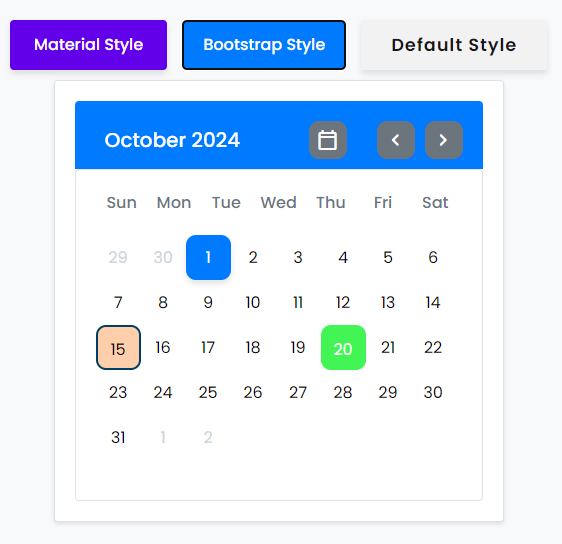
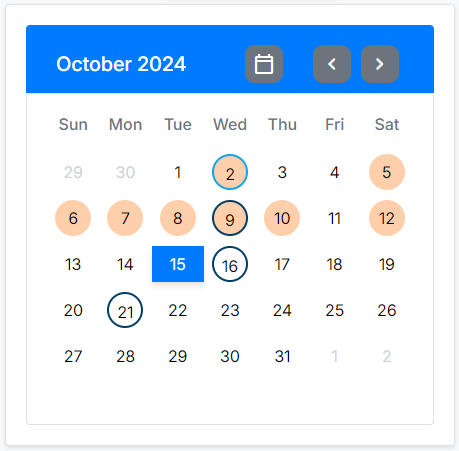
feat:  - add novas imagens  - ajuste no style do range de datas  - refatorando o READM.md

diff --git a/material.css b/material.css
@@ -75,14 +75,6 @@ body {
     color: #757575; /* Cor de texto secundário */
 }
 
-.wrapper.material-style .calendar .list-days .list-item-days {
-    height: 45px;
-    width: 45px;
-    padding: 10px;
-    cursor: pointer;
-    border-radius: 50%; /* Borda arredondada para os dias */
-    transition: background-color 0.3s ease, color 0.3s ease;
-}
 
 .wrapper.material-style .calendar .list-days .inactive {
     color: #bdbdbd; /* Cinza claro para dias inativos */
@@ -111,7 +103,32 @@ body {
     position: relative;
 }
 
+.wrapper.material-style .calendar .list-item-days .day{
+    border-radius: 0;
+}
+
+ 
+.wrapper.material-style .calendar .list-item-days.startSelection .day,
+.wrapper.material-style .calendar .list-item-days.endSelection .day {
+    background-color: #6200ea;
+}
+
 .wrapper.material-style .calendar .list-item-days:hover {
-    background-color: #eeeeee; /* Cor mais clara ao passar o mouse */
+    background-color: #eeeeee;  /** Cor mais clara ao passar o mouse */
     color: #181616;
 }
+
+.wrapper.material-style .calendar .inRange .day{
+    background-color: #6200ea;
+
+}
+
+.wrapper.material-style .startSelection::before {
+    right: 0;
+    background-color: #6200ea;
+}
+
+.wrapper.material-style .endSelection::before {
+    left: 0;
+    background-color: #6200ea;
+} 

diff --git a/bootstrap.css b/bootstrap.css
@@ -69,15 +69,6 @@ body {
     color: #6c757d; /* Cor secundária do Bootstrap para texto */
 }
 
-.wrapper.bootstrap-style .calendar .list-days .list-item-days {
-    height: 45px;
-    width: 45px;
-    padding: 10px;
-    cursor: pointer;
-    border-radius: 10px; /* Borda arredondada para os dias */
-    transition: background-color 0.3s ease, color 0.3s ease;
-}
-
 .wrapper.bootstrap-style .calendar .list-days .inactive {
     color: #ced4da; /* Cor cinza para dias inativos */
 }
@@ -104,6 +95,11 @@ body {
     width: calc(100% / 7);   
     position: relative;
 }
+
+
+/* .wrapper.bootstrap-style .calendar .list-item-days .day{
+    border-radius: 10px;
+} */
 
 .wrapper.bootstrap-style .calendar .list-item-days:hover {
     background-color: #f8f9fa; /* Cor de hover seguindo o padrão Bootstrap */

diff --git a/style-tce.css b/style-tce.css
@@ -91,14 +91,6 @@ body {
     color: #6c757d; /* Cor secundária do Bootstrap para texto */
 }
 
-.wrapper.tce-style .calendar .list-days .list-item-days {
-    height: 45px;
-    width: 45px;
-    padding: 10px;
-    cursor: pointer;
-    border-radius: 50%; /* Borda arredondada para os dias */
-    transition: background-color 0.3s ease, color 0.3s ease;
-}
 
 .wrapper.tce-style .calendar .list-days .inactive {
     color: #ced4da; /* Cor cinza para dias inativos */
@@ -133,6 +125,10 @@ body {
     width: calc(100% / 7);   
     position: relative;
 }
+/* 
+.wrapper.tce-style .calendar .list-item-days .day{
+    border-radius: 7px 0 7px 0;
+} */
 
 .wrapper.tce-style .calendar .list-item-days:hover {
     background-color: #f8f9fa; /* Cor de hover seguindo o padrão Bootstrap */

diff --git a/index.html b/index.html
@@ -23,7 +23,7 @@
     <div id="style">
         <button class="btn btn-material" onclick="changeStyle({ material: true })">Material Style</button>
         <button class="btn btn-bootstrap" onclick="changeStyle({ bootstrap: true })">Bootstrap Style</button>
-        <button class="btn btn-tce" onclick="changeStyle({ tce: true })">TCE Style</button>
+        <button class="btn btn-tce" onclick="changeStyle({ tce: true })">My Style</button>
         <button class="btn btn-default" onclick="changeStyle()">Default Style</button>
 
                 

diff --git a/styles.css b/styles.css
@@ -142,10 +142,14 @@
 /* fim */ 
 
 
+.wrapper {
+    margin: 0 auto;
+}
+
 /* ESITLO RESPONSAVEL POR APLICAR O RANGER DE DATAS */
 .wrapper .calendar 
 .list-item-days {
-    border-radius: 36px;
+    /* border-radius: 36px; */
     width: 36px;
     display: block;
     margin: 0 auto 10px;

diff --git a/default.css b/default.css
@@ -82,10 +82,3 @@
     width: calc(100% / 7);   
     position: relative;
 }
-
-/* HOVER NAS DATAS*/
-.wrapper.default-style .calendar 
-.list-item-days:hover .day {
-    background-color: #F2F2F2;
-    color: #181616;
-} 

diff --git a/README.md b/README.md
@@ -1,16 +1,31 @@
-# ze calander
 
-## Bootstrap
+# ze calendar
+
+## Objetivo
+
+Um calendário interativo com três opções de temas, permitindo personalização visual através de imagens e a opção de destacar intervalos de datas específicas.
+
+## Funcionalidades
+
+- 4 temas disponíveis: **Bootstrap**, **Material**,  **My Style**, e **Default**
+- Possibilidade de escolher entre três imagens de fundo para personalizar a aparência
+- Destaque de intervalos de datas utilizando a funcionalidade de **range**, permitindo fácil visualização de datas importantes
+
+## Demonstração
 
 [Demo](https://ze-calander.vercel.app/)
 
-![This is an alt text.](/imgs/style-bootstrap.png "Theme Style Bootstrap")
-
-## Material
-
-![This is an alt text.](/imgs/style-material.png "Theme Style Material")
-
-## Default
-
-![This is an alt text.](/imgs/style-default.png "Theme Style Default")
-
+<table>
+  <tr>
+    <td><img src="imgs/style-bootstrap.png" alt="Tema Bootstrap" title="Theme Style Bootstrap" width="200px" /></td>
+    <td><img src="imgs/style-material.png" alt="Tema Material" title="Theme Style Material" width="200px" /></td>
+    <td><img src="imgs/my-style.png" alt="Tema My Style" title="Theme My Style" width="200px" /></td>
+    <td><img src="imgs/style-default.png" alt="Tema Default" title="Theme Style Default" width="200px" /></td>
+  </tr>
+  <tr>
+    <td align="center"><p>Tema Bootstrap</p></td>
+    <td align="center"><p>Tema Material</p></td>
+    <td align="center"><p>Tema My Style</p></td>
+    <td align="center"><p>Tema Default</p></td>
+  </tr>
+</table>
